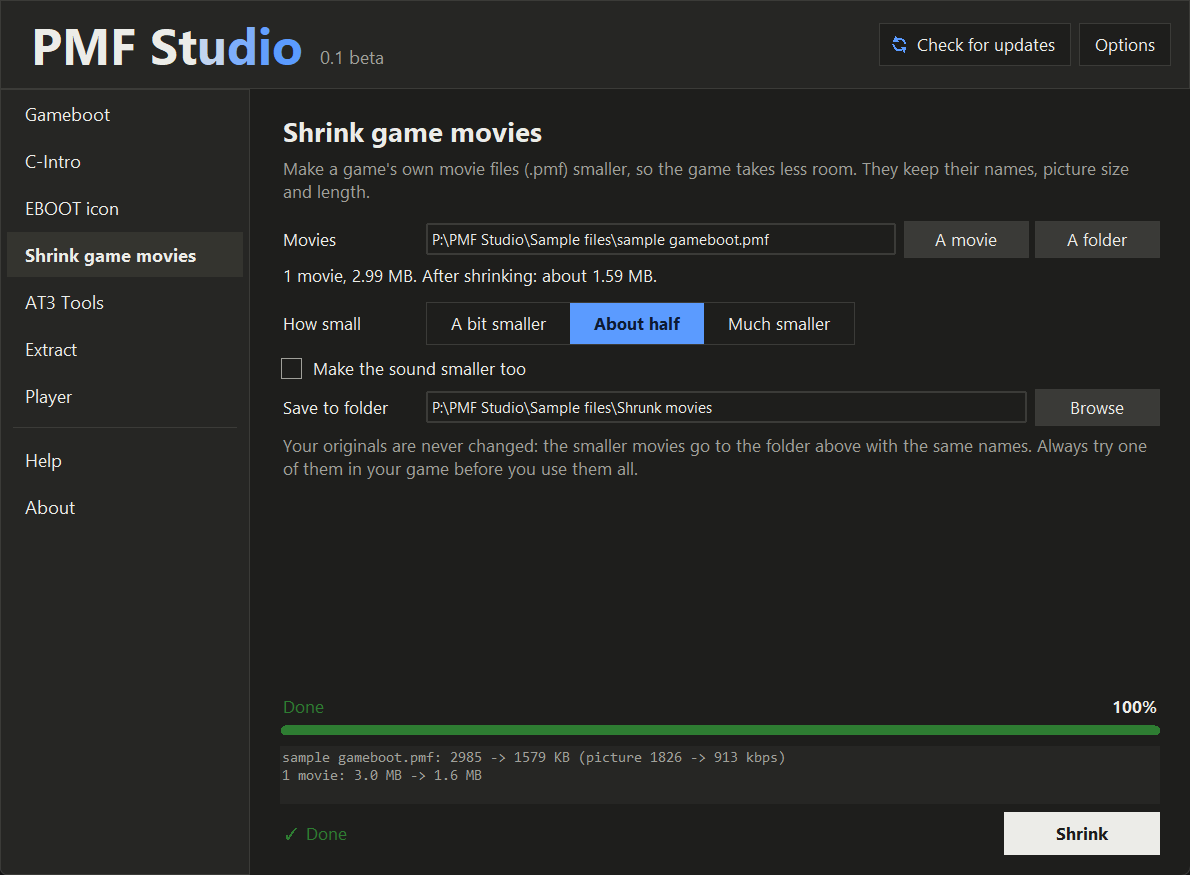
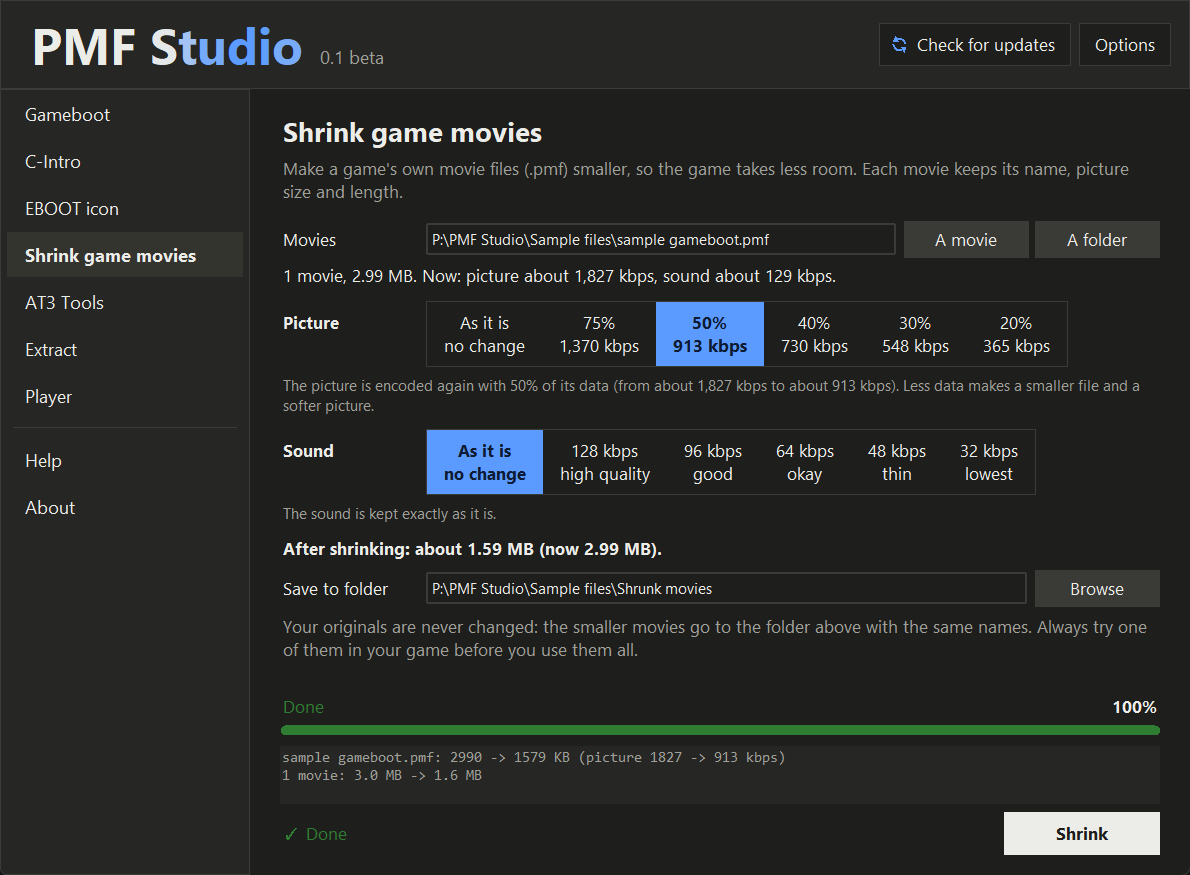
Shrink game movies: picture and sound choices with real bitrates, sound always part of it

diff --git a/pmfstudio/app.py b/pmfstudio/app.py
@@ -671,7 +671,7 @@ class App(tk.Tk):
             self.note("This sound replaces the icon movie's own sound. They never play together, and they share 512 KB, so a long sound means a smaller picture.", warn=True, parent=self.sep_holder)
 
     def page_shrink(self):
-        self.heading("Shrink game movies", "Make a game's own movie files (.pmf) smaller, so the game takes less room. They keep their names, picture size and length.")
+        self.heading("Shrink game movies", "Make a game's own movie files (.pmf) smaller, so the game takes less room. Each movie keeps its name, picture size and length.")
         f = tk.Frame(self.main, bg=T.bg)
         f.pack(fill="x", pady=3)
         self.label_cell(f, "Movies")
@@ -680,22 +680,31 @@ class App(tk.Tk):
         ttk.Button(f, text="A movie", command=lambda: self.pick_movies(False)).pack(side="left", padx=(0, 6))
         ttk.Button(f, text="A folder", command=lambda: self.pick_movies(True)).pack(side="left")
         self.shrink_info = tk.Label(self.main, text="Pick one movie, or a whole folder of them.", bg=T.bg, fg=T.muted, font=(FONT, 10), anchor="w", justify="left", wraplength=S(700))
-        self.shrink_info.pack(fill="x", pady=(0, 6))
-        f = tk.Frame(self.main, bg=T.bg)
-        f.pack(fill="x", pady=(6, 3))
-        tk.Label(f, text="How small", width=14, anchor="w", bg=T.bg, fg=T.ink, font=(FONT, 10)).pack(side="left")
-        self.vars["amount"] = tk.StringVar(value="much")
-        Segmented(f, [("smaller", "A bit smaller"), ("much", "About half"), ("tiny", "Much smaller")], self.vars["amount"], self.shrink_refresh).pack(side="left")
-        self.tick("sound_small", "Make the sound smaller too", self.shrink_refresh)
+        self.shrink_info.pack(fill="x", pady=(0, 8))
+        self.vars["picture"] = tk.StringVar(value="0.5")
+        self.vars["sound"] = tk.StringVar(value="keep")
+        self.picture_holder = tk.Frame(self.main, bg=T.bg)
+        self.picture_holder.pack(fill="x")
+        self.picture_note = tk.Label(self.main, text="", bg=T.bg, fg=T.muted, font=(FONT, 9), anchor="w", justify="left", wraplength=S(700))
+        self.picture_note.pack(fill="x", pady=(2, 8))
         self.sound_holder = tk.Frame(self.main, bg=T.bg)
         self.sound_holder.pack(fill="x")
+        self.sound_note = tk.Label(self.main, text="", bg=T.bg, fg=T.muted, font=(FONT, 9), anchor="w", justify="left", wraplength=S(700))
+        self.sound_note.pack(fill="x", pady=(2, 8))
+        self.shrink_result = tk.Label(self.main, text="", bg=T.bg, fg=T.ink, font=(FONT, 10, "bold"), anchor="w")
+        self.shrink_result.pack(fill="x", pady=(0, 4))
         self.row("out", "Save to folder", "dir", initial=self.out_default("Shrunk movies"))
         self.note("Your originals are never changed: the smaller movies go to the folder above with the same names. "
                   "Always try one of them in your game before you use them all.")
         self.footer("Shrink", self.run_shrink, bar=False)
         self.vars["src"].trace_add("write", lambda *a: self.shrink_typed())
         self.shrink_job = None
-        self.shrink_refresh()
+        self.shrink_info_data = None
+        self.shrink_survey(True)
+
+    PICTURE_CHOICES = (("1.0", "As it is"), ("0.75", "75%"), ("0.5", "50%"), ("0.4", "40%"), ("0.3", "30%"), ("0.2", "20%"))
+    SOUND_WORDS = {"keep": "no change", "128": "high quality", "96": "good", "64": "okay", "48": "thin", "32": "lowest"}
+    SOUND_CHOICES = (("keep", "As it is"), ("128", "128 kbps"), ("96", "96 kbps"), ("64", "64 kbps"), ("48", "48 kbps"), ("32", "32 kbps"))
 
     def pick_movies(self, folder):
         cur = self.vars["src"].get()
@@ -707,39 +716,82 @@ class App(tk.Tk):
     def shrink_typed(self):
         if self.shrink_job:
             self.after_cancel(self.shrink_job)
-        self.shrink_job = self.after(500, self.shrink_refresh)
+        self.shrink_job = self.after(500, lambda: self.shrink_survey(True))
 
-    def shrink_refresh(self):
-        """the sound choice appears with its tick; the line under the movies says how many there are and what they should come to"""
+    def shrink_survey(self, reread):
+        """looks at the chosen movies (their picture and sound bitrates), then draws the choices with real numbers"""
         from pmfkit import shrink
         self.shrink_job = None
-        if not self.alive(getattr(self, "sound_holder", None)):
+        if not self.alive(getattr(self, "picture_holder", None)):
             return
-        for w in self.sound_holder.winfo_children():
-            w.destroy()
-        if self.vars["sound_small"].get():
-            f = tk.Frame(self.sound_holder, bg=T.bg)
-            f.pack(fill="x", pady=(2, 4))
-            tk.Label(f, text="Sound quality", width=14, anchor="w", bg=T.bg, fg=T.ink, font=(FONT, 10)).pack(side="left")
-            if "sound_kbps" not in self.vars:
-                self.vars["sound_kbps"] = tk.StringVar(value="96 kbps")
-            Segmented(f, [(k, k) for k in KBPS[::-1]], self.vars["sound_kbps"], self.shrink_refresh).pack(side="left")
-            tk.Label(self.sound_holder, text="Lower is smaller. A sound that is already lower than this is left alone.", bg=T.bg, fg=T.muted, font=(FONT, 9), anchor="w").pack(fill="x")
         path = self.vars["src"].get().strip()
-        if not path:
-            self.shrink_info.configure(text="Pick one movie, or a whole folder of them.", fg=T.muted)
-        elif not os.path.exists(path):
-            self.shrink_info.configure(text="Can't find that movie or folder.", fg=BAD)
-        else:
-            sound = int(self.vars["sound_kbps"].get().split()[0]) if self.vars["sound_small"].get() else None
-            try:
-                count, total, after = shrink.estimate(path, shrink.RATIOS[self.vars["amount"].get()], sound)
-            except OSError:
-                count = 0
-            if not count:
-                self.shrink_info.configure(text="There are no .pmf movies there.", fg=BAD)
+        if reread:
+            self.shrink_info_data = None
+            if not path:
+                self.shrink_info.configure(text="Pick one movie, or a whole folder of them.", fg=T.muted)
+            elif not os.path.exists(path):
+                self.shrink_info.configure(text="Can't find that movie or folder.", fg=BAD)
             else:
-                self.shrink_info.configure(text="%d movie%s, %s. After shrinking: about %s." % (count, "" if count == 1 else "s", self.fmt(total), self.fmt(after)), fg=T.ink)
+                try:
+                    self.shrink_info_data = shrink.survey(path)
+                except OSError:
+                    self.shrink_info_data = None
+                info = self.shrink_info_data
+                if not info or not info.count:
+                    self.shrink_info_data = None
+                    self.shrink_info.configure(text="There are no .pmf movies there.", fg=BAD)
+                else:
+                    self.shrink_info.configure(text="%d movie%s, %s. Now: picture about %s kbps, sound about %s kbps." % (
+                        info.count, "" if info.count == 1 else "s", self.fmt(info.total), format(int(info.picture_kbps), ","), int(info.sound_kbps)), fg=T.ink)
+        self.shrink_draw()
+
+    def shrink_draw(self):
+        """the two rows of choices; each picture choice shows the picture bitrate it gives for these movies"""
+        from pmfkit import shrink
+        info = self.shrink_info_data
+        for holder in (self.picture_holder, self.sound_holder):
+            for w in holder.winfo_children():
+                w.destroy()
+        f = tk.Frame(self.picture_holder, bg=T.bg)
+        f.pack(fill="x", pady=3)
+        tk.Label(f, text="Picture", width=14, anchor="nw", bg=T.bg, fg=T.ink, font=(FONT, 10, "bold")).pack(side="left", anchor="n", pady=(S(6), 0))
+        options = []
+        for value, name in self.PICTURE_CHOICES:
+            if info and info.picture_kbps:
+                second = "no change" if value == "1.0" else "%s kbps" % format(max(shrink.FLOOR_KBPS, int(info.picture_kbps * float(value))), ",")
+            else:
+                second = "no change" if value == "1.0" else "of what it is now"
+            options.append((value, "%s\n%s" % (name, second)))
+        Segmented(f, options, self.vars["picture"], self.shrink_texts, pad=12).pack(side="left")
+        f = tk.Frame(self.sound_holder, bg=T.bg)
+        f.pack(fill="x", pady=3)
+        tk.Label(f, text="Sound", width=14, anchor="nw", bg=T.bg, fg=T.ink, font=(FONT, 10, "bold")).pack(side="left", anchor="n", pady=(S(6), 0))
+        Segmented(f, [(v, "%s\n%s" % (n, self.SOUND_WORDS[v])) for v, n in self.SOUND_CHOICES], self.vars["sound"], self.shrink_texts, pad=12).pack(side="left")
+        self.shrink_texts()
+
+    def shrink_texts(self):
+        """the sentences under the choices say what will actually happen; the last line is the size to expect"""
+        from pmfkit import shrink
+        info = self.shrink_info_data
+        ratio = float(self.vars["picture"].get())
+        now = "%s kbps" % format(int(info.picture_kbps), ",") if info and info.picture_kbps else "what it is now"
+        if ratio >= 0.999:
+            self.picture_note.configure(text="The picture is left exactly as it is.")
+        else:
+            then = " to about %s kbps" % format(max(shrink.FLOOR_KBPS, int(info.picture_kbps * ratio)), ",") if info and info.picture_kbps else ""
+            self.picture_note.configure(text="The picture is encoded again with %d%% of its data (from about %s%s). Less data makes a smaller file and a softer picture." % (
+                round(ratio * 100), now, then))
+        sound = self.vars["sound"].get()
+        if sound == "keep":
+            self.sound_note.configure(text="The sound is kept exactly as it is.")
+        else:
+            was = " (now about %d kbps)" % int(info.sound_kbps) if info and info.sound_kbps else ""
+            self.sound_note.configure(text="The sound is encoded again at %s kbps%s. Lower is smaller and flatter; a sound that is already lower stays as it is." % (sound, was))
+        if info:
+            after = shrink.predict(info, ratio, int(sound) if sound != "keep" else None)
+            self.shrink_result.configure(text="After shrinking: about %s (now %s)." % (self.fmt(after), self.fmt(info.total)))
+        else:
+            self.shrink_result.configure(text="")
 
     def run_shrink(self):
         self.start(jobs.shrink, [("src", "a movie or a folder of movies"), ("out", "the folder to save in")])
@@ -869,7 +921,8 @@ class App(tk.Tk):
                 "A movie for the C-Intro plugin. There is no size limit.\n\n"
                 "Shrink game movies\n"
                 "Makes the .pmf movies of a game smaller so the game takes less room. Pick one movie or a whole folder. Each smaller movie keeps its name, picture size and length, "
-                "and goes to another folder: your originals are never changed. The sound is kept exactly as it is, unless you tick Make the sound smaller too. "
+                "and goes to another folder: your originals are never changed. You choose how much data the picture keeps and the quality of the sound (or leave either as it is); "
+                "the page shows the picture and sound bitrates of your movies and what each choice gives. "
                 "Try one movie in your game before you use them all.\n\n"
                 "EBOOT icon\n"
                 "The small movie that plays in the XMB when you highlight a game. It's saved into a copy of the game's EBOOT. "

diff --git a/pmfkit/shrink.py b/pmfkit/shrink.py
@@ -45,31 +45,46 @@ def find_movies(path):
     return sorted(found, key=lambda t: t[1].lower())
 
 
-def estimate(path, ratio, sound_kbps=None, samples=3):
-    """a quick guess before the work starts -> (number of movies, their total bytes, bytes after shrinking).
-    Looks inside a few of the movies to see how much of a file is sound (the sound stays the same size unless sound_kbps is given)."""
+class Survey:
+    """what a folder of movies looks like, read from the biggest few: how many, how big, and the picture and sound bitrates (kbps) they have now"""
+
+    def __init__(self, count=0, total=0, picture_kbps=0, sound_kbps=0, sound_share=0.0):
+        self.count, self.total, self.picture_kbps, self.sound_kbps, self.sound_share = count, total, picture_kbps, sound_kbps, sound_share
+
+
+def survey(path, samples=3):
     movies = find_movies(path)
-    sizes = [os.path.getsize(p) for p, _ in movies]
-    total = sum(sizes)
     if not movies:
-        return 0, 0, 0
+        return Survey()
+    sizes = [os.path.getsize(p) for p, _ in movies]
     picked = sorted(range(len(movies)), key=lambda i: -sizes[i])[:samples]
-    share_sum = weight = 0
+    vbits = abits = secs = asecs = abytes = weight = 0
     for i in picked:
         try:
             raw = load_pmf(movies[i][0])
             _, video, audio, _ = demux(raw)
-            seconds = duration_seconds(video, audio)
-            audio_bytes = len(audio)
-            if sound_kbps and audio and audio_bytes * 8 / max(seconds, 0.1) / 1000 > sound_kbps + 4:
-                audio_bytes = int(audio_bytes * sound_kbps / (audio_bytes * 8 / max(seconds, 0.1) / 1000))
-            share_sum += (len(raw) - len(audio)) * ratio + audio_bytes
-            weight += len(raw)
         except (ValueError, OSError):
             continue
-    if not weight:
-        return len(movies), total, int(total * ratio)
-    return len(movies), total, int(total * share_sum / weight)
+        seconds = max(duration_seconds(video, audio), 0.1)
+        vbits += len(video) * 8
+        abits += len(audio) * 8
+        asecs += seconds if audio else 0
+        secs += seconds
+        abytes += len(audio)
+        weight += len(raw)
+    if not secs:
+        return Survey(len(movies), sum(sizes))
+    return Survey(len(movies), sum(sizes), vbits / secs / 1000, abits / max(asecs, 0.1) / 1000, abytes / max(weight, 1))
+
+
+def predict(info, ratio, sound_kbps=None):
+    """bytes after shrinking, a guess from a Survey: the picture part scales with the ratio, the sound part with the new sound bitrate"""
+    if not info.total:
+        return 0
+    sound = info.sound_share
+    if sound_kbps and info.sound_kbps > sound_kbps + 4:
+        sound = sound * sound_kbps / info.sound_kbps
+    return int(info.total * ((1 - info.sound_share) * min(ratio, 1.0) + sound))
 
 
 def _reencode(ffmpeg, es_in, es_out, seconds, kbps, gop, bframes, bufsize):
@@ -109,9 +124,10 @@ def shrink_one(src, dst, ffmpeg, atracdenc=None, ratio=0.5, sound_kbps=None, bfr
     before = len(raw)
     old_kbps = len(video) * 8 / max(seconds, 0.1) / 1000
     kbps = max(FLOOR_KBPS, int(old_kbps * ratio))
-    if kbps >= old_kbps * 0.95:
+    keep_picture = ratio >= 0.999 or kbps >= old_kbps * 0.95              # nothing to take from the picture: only the sound can change
+    if keep_picture and not (audio and sound_kbps and atracdenc):
         shutil.copyfile(src, dst) if os.path.abspath(src) != os.path.abspath(dst) else None
-        return ShrinkResult(src, dst, before, before, "already small: copied as it is")
+        return ShrinkResult(src, dst, before, before, "nothing to change: copied as it is")
     version = params.version if params.version in HEADER_KIB else "0012"
     style = "A" if params.video_buffer_kib >= 400 else "B"
     work = tempfile.mkdtemp(prefix="pmfshrink_")
@@ -126,7 +142,15 @@ def shrink_one(src, dst, ffmpeg, atracdenc=None, ratio=0.5, sound_kbps=None, bfr
         gop = 59
         bufsize = int(kbps * 1.5)
         best = None
-        for attempt in range(4):
+        if keep_picture:
+            if new_audio is None:
+                shutil.copyfile(src, dst) if os.path.abspath(src) != os.path.abspath(dst) else None
+                return ShrinkResult(src, dst, before, before, "the sound is already that low: copied as it is")
+            # the picture goes back in exactly as it was (the game's own stream: no PSP check needed), only the sound is new
+            with PROGRESS.stage(0.2, 0.95, "Putting the movie together…"):
+                best = mux(video, sound, version=version, style=style, width=params.width, height=params.height, allow_b=True, strict=False)
+            kbps = old_kbps
+        for attempt in range(0 if keep_picture else 4):
             lo = 0.2 + 0.7 * attempt / 4
             with PROGRESS.stage(lo, lo + 0.7 / 4, "Making the picture smaller…" if attempt == 0 else "Adjusting…"):
                 _reencode(ffmpeg, es_in, es_out, seconds, kbps, gop, bframes, bufsize)
@@ -150,12 +174,15 @@ def shrink_one(src, dst, ffmpeg, atracdenc=None, ratio=0.5, sound_kbps=None, bfr
         problem = _check(raw, best, new_audio is None)
         if problem:
             raise ValueError("The smaller movie did not pass the check (%s), so nothing was written." % problem)
-        if len(best) > before * (1 - MIN_GAIN):
+        if len(best) > before * (1 - (0.0 if keep_picture else MIN_GAIN)) or len(best) >= before:           # a sound asked for by name is kept if it saves anything
             shutil.copyfile(src, dst) if os.path.abspath(src) != os.path.abspath(dst) else None
             return ShrinkResult(src, dst, before, before, "would not get smaller: copied as it is")
         open(dst, "wb").write(best)
         PROGRESS.report(1.0)
-        return ShrinkResult(src, dst, before, len(best), "picture %d -> %d kbps" % (old_kbps, kbps))
+        note = "picture kept" if keep_picture else "picture %d -> %d kbps" % (old_kbps, kbps)
+        if new_audio is not None:
+            note += ", sound %d -> %d kbps" % (atrac3p.from_units(audio).kbps, new_audio.kbps)
+        return ShrinkResult(src, dst, before, len(best), note)
     finally:
         shutil.rmtree(work, ignore_errors=True)
 

diff --git a/tests/test_shrink.py b/tests/test_shrink.py
@@ -61,6 +61,25 @@ class ShrinkMovieTests(unittest.TestCase):
         self.assertLess(len(a1), len(a0) * 0.7)
         self.assertLess(r.after, r.before)
 
+    def test_keep_the_picture_and_change_only_the_sound(self):
+        out = os.path.join(self.dir, "sound_only.pmf")
+        r = shrink.shrink(self.pmf, out, FFMPEG, ATRAC, ratio=1.0, sound_kbps=32)[0]
+        _, v0, a0, _ = demux(open(self.pmf, "rb").read())
+        _, v1, a1, _ = demux(open(out, "rb").read())
+        self.assertEqual(v1, v0)                                              # the picture data is untouched
+        self.assertLess(len(a1), len(a0) * 0.4)
+        self.assertLess(r.after, r.before)
+        self.assertIn("picture kept", r.note)
+
+    def test_survey_and_prediction(self):
+        info = shrink.survey(self.pmf)
+        self.assertEqual(info.count, 1)
+        self.assertGreater(info.picture_kbps, 500)
+        self.assertAlmostEqual(info.sound_kbps, 128, delta=15)
+        self.assertLess(shrink.predict(info, 0.5), info.total * 0.7)
+        self.assertLess(shrink.predict(info, 0.5, 32), shrink.predict(info, 0.5))
+        self.assertEqual(shrink.predict(info, 1.0), info.total)
+
     def test_a_movie_that_cannot_get_smaller_is_copied_and_a_bad_file_is_reported(self):
         tiny = os.path.join(self.dir, "tiny_in")
         os.makedirs(tiny)

diff --git a/pmfstudio/selftest.py b/pmfstudio/selftest.py
@@ -42,7 +42,7 @@ def run():
                 ("AT3 sound", lambda: jobs.at3(dict(sound=src, out=work + "/s.at3", kbps=64, lufs=-12, keep=False, loop=True), tools, lambda l: None), work + "/s.at3"),
                 ("AT3 sound, 32 kbps, busy sound", lambda: jobs.at3(dict(sound=noise, out=work + "/n32.at3", kbps=32, lufs=-12, keep=False, loop=True), tools, lambda l: None), work + "/n32.at3"),
                 ("PMF to MP4", lambda: jobs.extract(dict(src=work + "/gb.pmf", out=work + "/gb.mp4", sound_too=True), tools, lambda l: None), work + "/gb.mp4"),
-                ("smaller game movie", lambda: jobs.shrink(dict(src=work + "/gb.pmf", out=work + "/shrunk", amount="much"), tools, lambda l: None), work + "/shrunk/gb.pmf"),
+                ("smaller game movie", lambda: jobs.shrink(dict(src=work + "/gb.pmf", out=work + "/shrunk", picture="0.5", sound="64"), tools, lambda l: None), work + "/shrunk/gb.pmf"),
                 ("AT3 to WAV", lambda: jobs.extract_sound(dict(sound=work + "/s.at3", out=work + "/s.wav", fmt="wav"), tools, lambda l: None), work + "/s.wav"),
                 ("AT3 to MP3", lambda: jobs.extract_sound(dict(sound=work + "/s.at3", out=work + "/s.mp3", fmt="mp3", mp3kbps="192 kbps"), tools, lambda l: None), work + "/s.mp3"),
             ]

diff --git a/pmfkit/cli.py b/pmfkit/cli.py
@@ -528,7 +528,7 @@ def main(argv=None):
     sh.add_argument("-o", "--output", required=True, help="the new .pmf, or the folder for the new movies")
     sh.add_argument("--ffmpeg", default="ffmpeg")
     sh.add_argument("--atracdenc", help="path to atracdenc (only needed with --sound-kbps)")
-    sh.add_argument("--amount", default="much", help="smaller (keep 75%% of the picture bitrate), much (50%%), tiny (30%%), or a number such as 0.4")
+    sh.add_argument("--amount", default="much", help="the share of the picture bitrate to keep: a number such as 0.5 (1.0 leaves the picture as it is and only changes the sound with --sound-kbps), or the words smaller (0.75), much (0.5), tiny (0.3)")
     sh.add_argument("--sound-kbps", type=int, help="encode the sound again at this ATRAC3plus bitrate (default: keep the sound as it is)")
     sh.add_argument("--bframes", type=int, default=1, help="B-frames in the new picture (default 1, as in the game movies we looked at)")
     sh.set_defaults(fn=cmd_shrink)

diff --git a/tools/analysis/gui_shrink_test.py b/tools/analysis/gui_shrink_test.py
@@ -42,11 +42,11 @@ snap("empty")
 a.vars["src"].set(src)
 pump(1.5)
 print("info:", a.shrink_info.cget("text"))
-a.vars["amount"].set("tiny"); a.shrink_refresh()
-print("tiny:", a.shrink_info.cget("text"))
-a.vars["amount"].set("much")
-a.vars["sound_small"].set(True); a.shrink_refresh()
-print("with sound:", a.shrink_info.cget("text"))
+print("picture:", a.picture_note.cget("text"))
+print("sound:", a.sound_note.cget("text"), "|", a.shrink_result.cget("text"))
+a.vars["picture"].set("0.3"); a.vars["sound"].set("64"); a.shrink_texts()
+print("30% + 64 kbps:", a.picture_note.cget("text")[:70], "|", a.sound_note.cget("text")[:50], "|", a.shrink_result.cget("text"))
+a.vars["picture"].set("0.5"); a.vars["sound"].set("96"); a.shrink_draw()
 snap("ready")
 # saving over the originals is refused
 a.vars["out"].set(src)

diff --git a/pmfstudio/jobs.py b/pmfstudio/jobs.py
@@ -151,9 +151,9 @@ def shrink(v, tools, emit):
         dest = os.path.join(out, os.path.basename(src))
         if os.path.normcase(dest) == os.path.normcase(src):
             raise cli.BuildError("Save the smaller movie in a different folder. PMF Studio never replaces your originals.")
-    argv = ["shrink", src, "-o", dest, "--ffmpeg", tools["ffmpeg"], "--amount", v.get("amount", "much")]
-    if v.get("sound_small"):
-        argv += ["--atracdenc", tools["atracdenc"], "--sound-kbps", str(int(v.get("sound_kbps", "96 kbps").split()[0]))]
+    argv = ["shrink", src, "-o", dest, "--ffmpeg", tools["ffmpeg"], "--amount", str(v.get("picture", "0.5"))]
+    if v.get("sound", "keep") != "keep":
+        argv += ["--atracdenc", tools["atracdenc"], "--sound-kbps", str(int(v["sound"]))]
     run(argv, emit)
 
 

diff --git a/pmfstudio/widgets.py b/pmfstudio/widgets.py
@@ -185,11 +185,11 @@ class Check(tk.Frame):
 class Segmented(tk.Frame):
     """Two or three choices side by side; the chosen one is filled."""
 
-    def __init__(self, parent, options, variable, command=None):
+    def __init__(self, parent, options, variable, command=None, pad=18):
         super().__init__(parent, bg=T.line, padx=1, pady=1)
         self.var, self.command, self.items = variable, command, {}
         for value, text in options:
-            lab = tk.Label(self, text=text, font=(FONT, 10), padx=S(18), pady=S(6), cursor="hand2")
+            lab = tk.Label(self, text=text, font=(FONT, 10), padx=S(pad), pady=S(6), cursor="hand2")
             lab.pack(side="left")
             lab.bind("<Button-1>", lambda e, v=value: self.choose(v))
             self.items[value] = lab

diff --git a/README.md b/README.md
@@ -16,7 +16,7 @@ More: [gameboot built](docs/screenshots/gameboot-built.png), [EBOOT icon](docs/s
 - **C-Intro**: a movie for the C-Intro boot plugin.
 - **EBOOT icon**: changes the icon movie, the sound, the pictures and the title in a copy of a game's EBOOT.
 - **Shrink game movies**: makes a game's own `.pmf` movies smaller (one movie or a whole folder): same names, picture size and
-  length, the picture re-encoded at a lower bitrate, the sound kept as it is or shrunk too. Every result is checked before it is saved.
+  length, you choose how much of the picture's bitrate to keep (100% to 20%, shown in kbps for your movies) and the sound quality (as it is, or 128 down to 32 kbps). Every result is checked before it is saved.
 - **AT3 Tools**: make an AT3 from any sound, shrink an AT3 from a game, or turn an AT3 into a WAV or MP3.
 - **Extract**: takes any PMF apart into an MP4 (and its sound as AT3 and WAV).
 - **Player**: plays PMF movies and sounds inside the program, with full screen.
